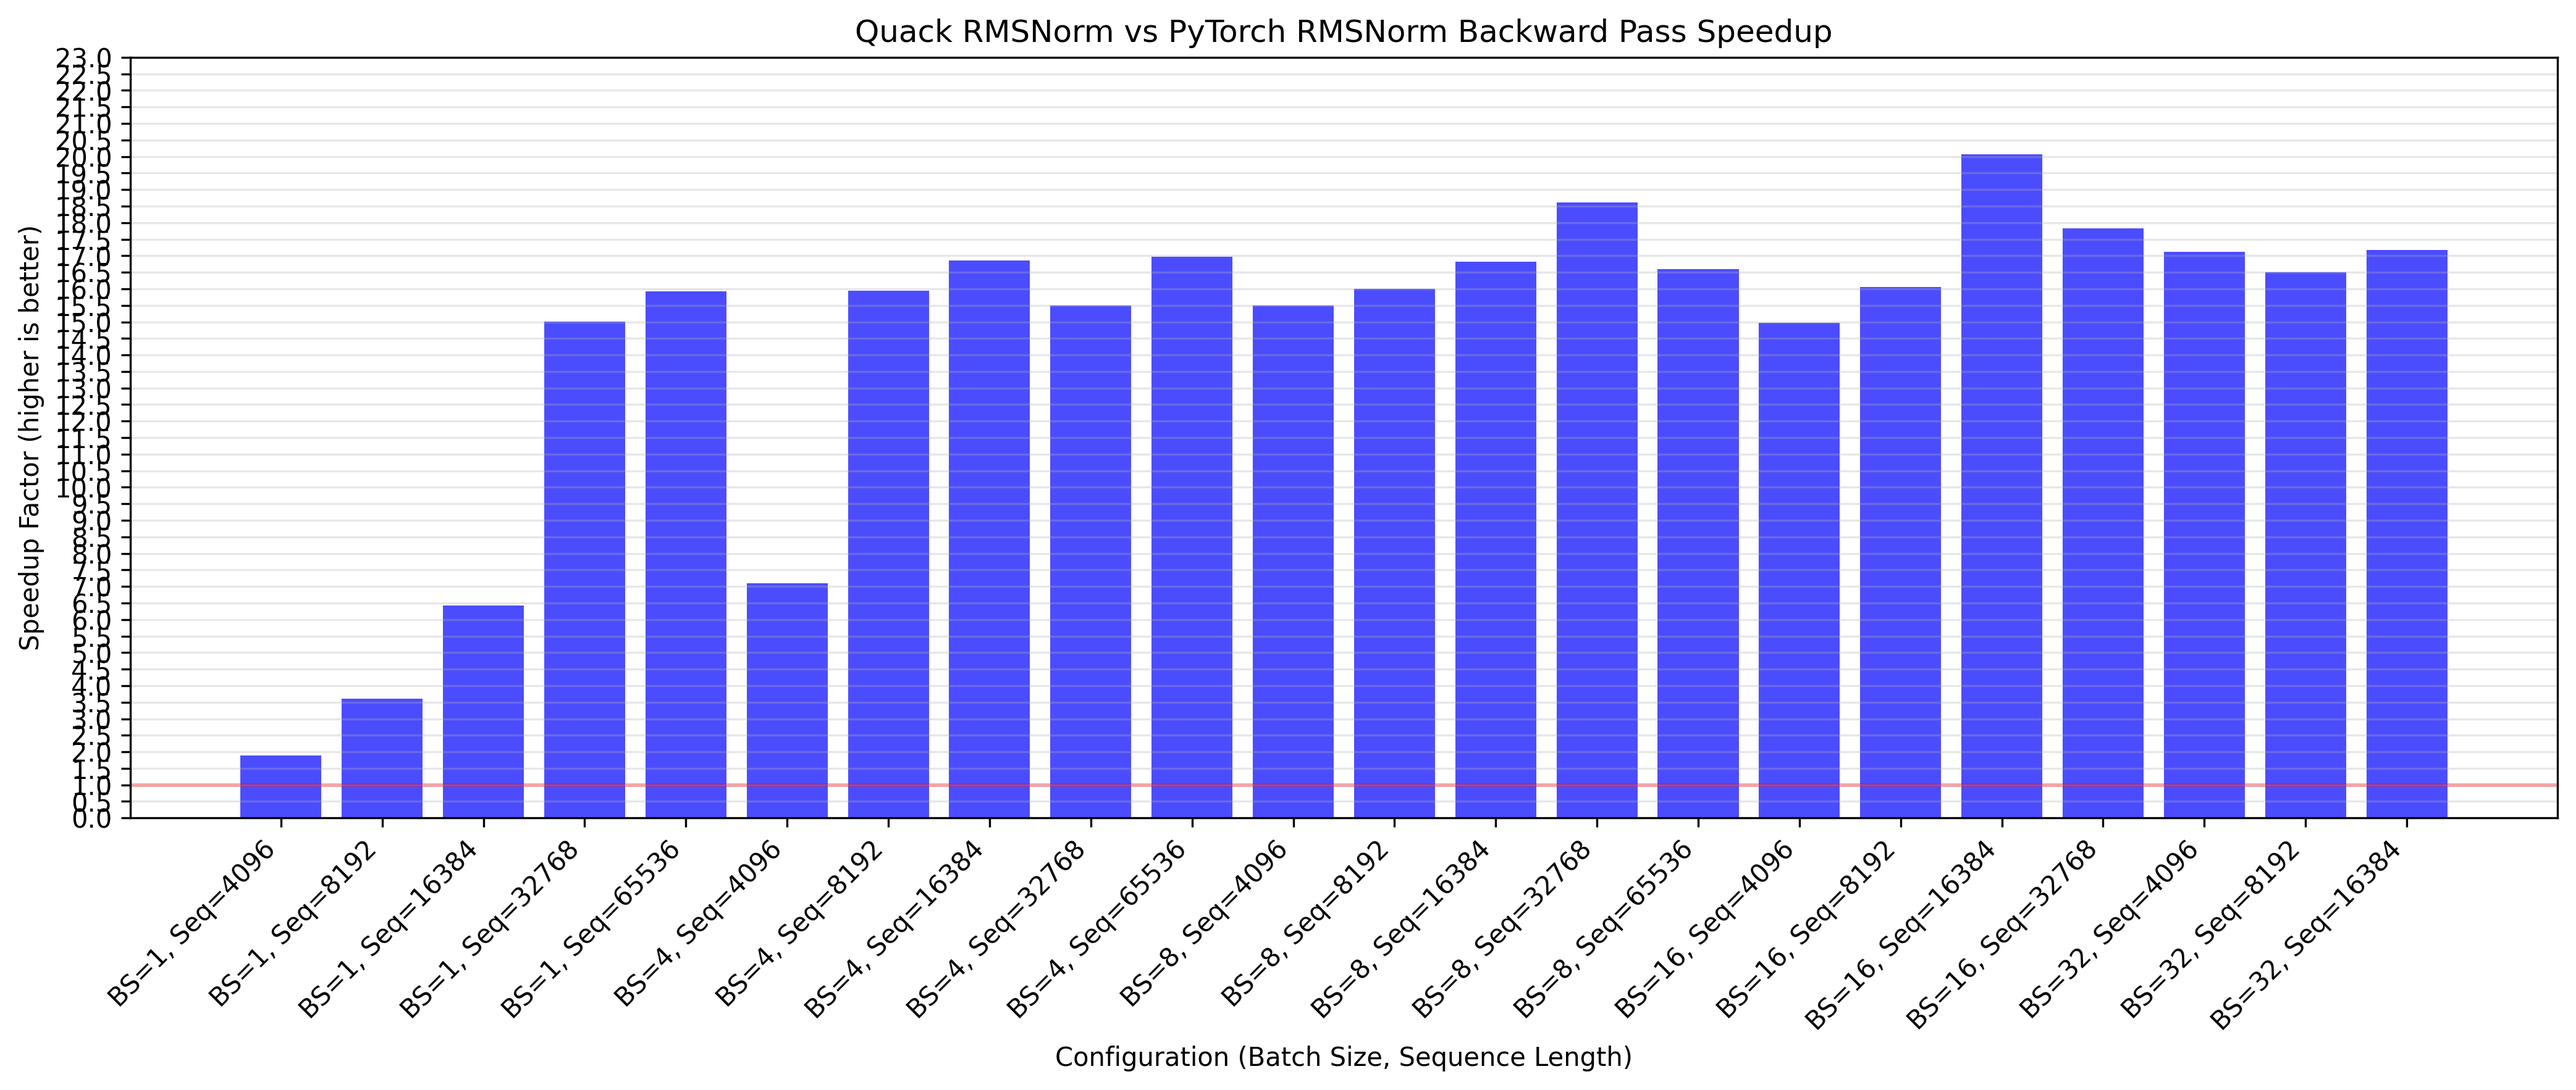
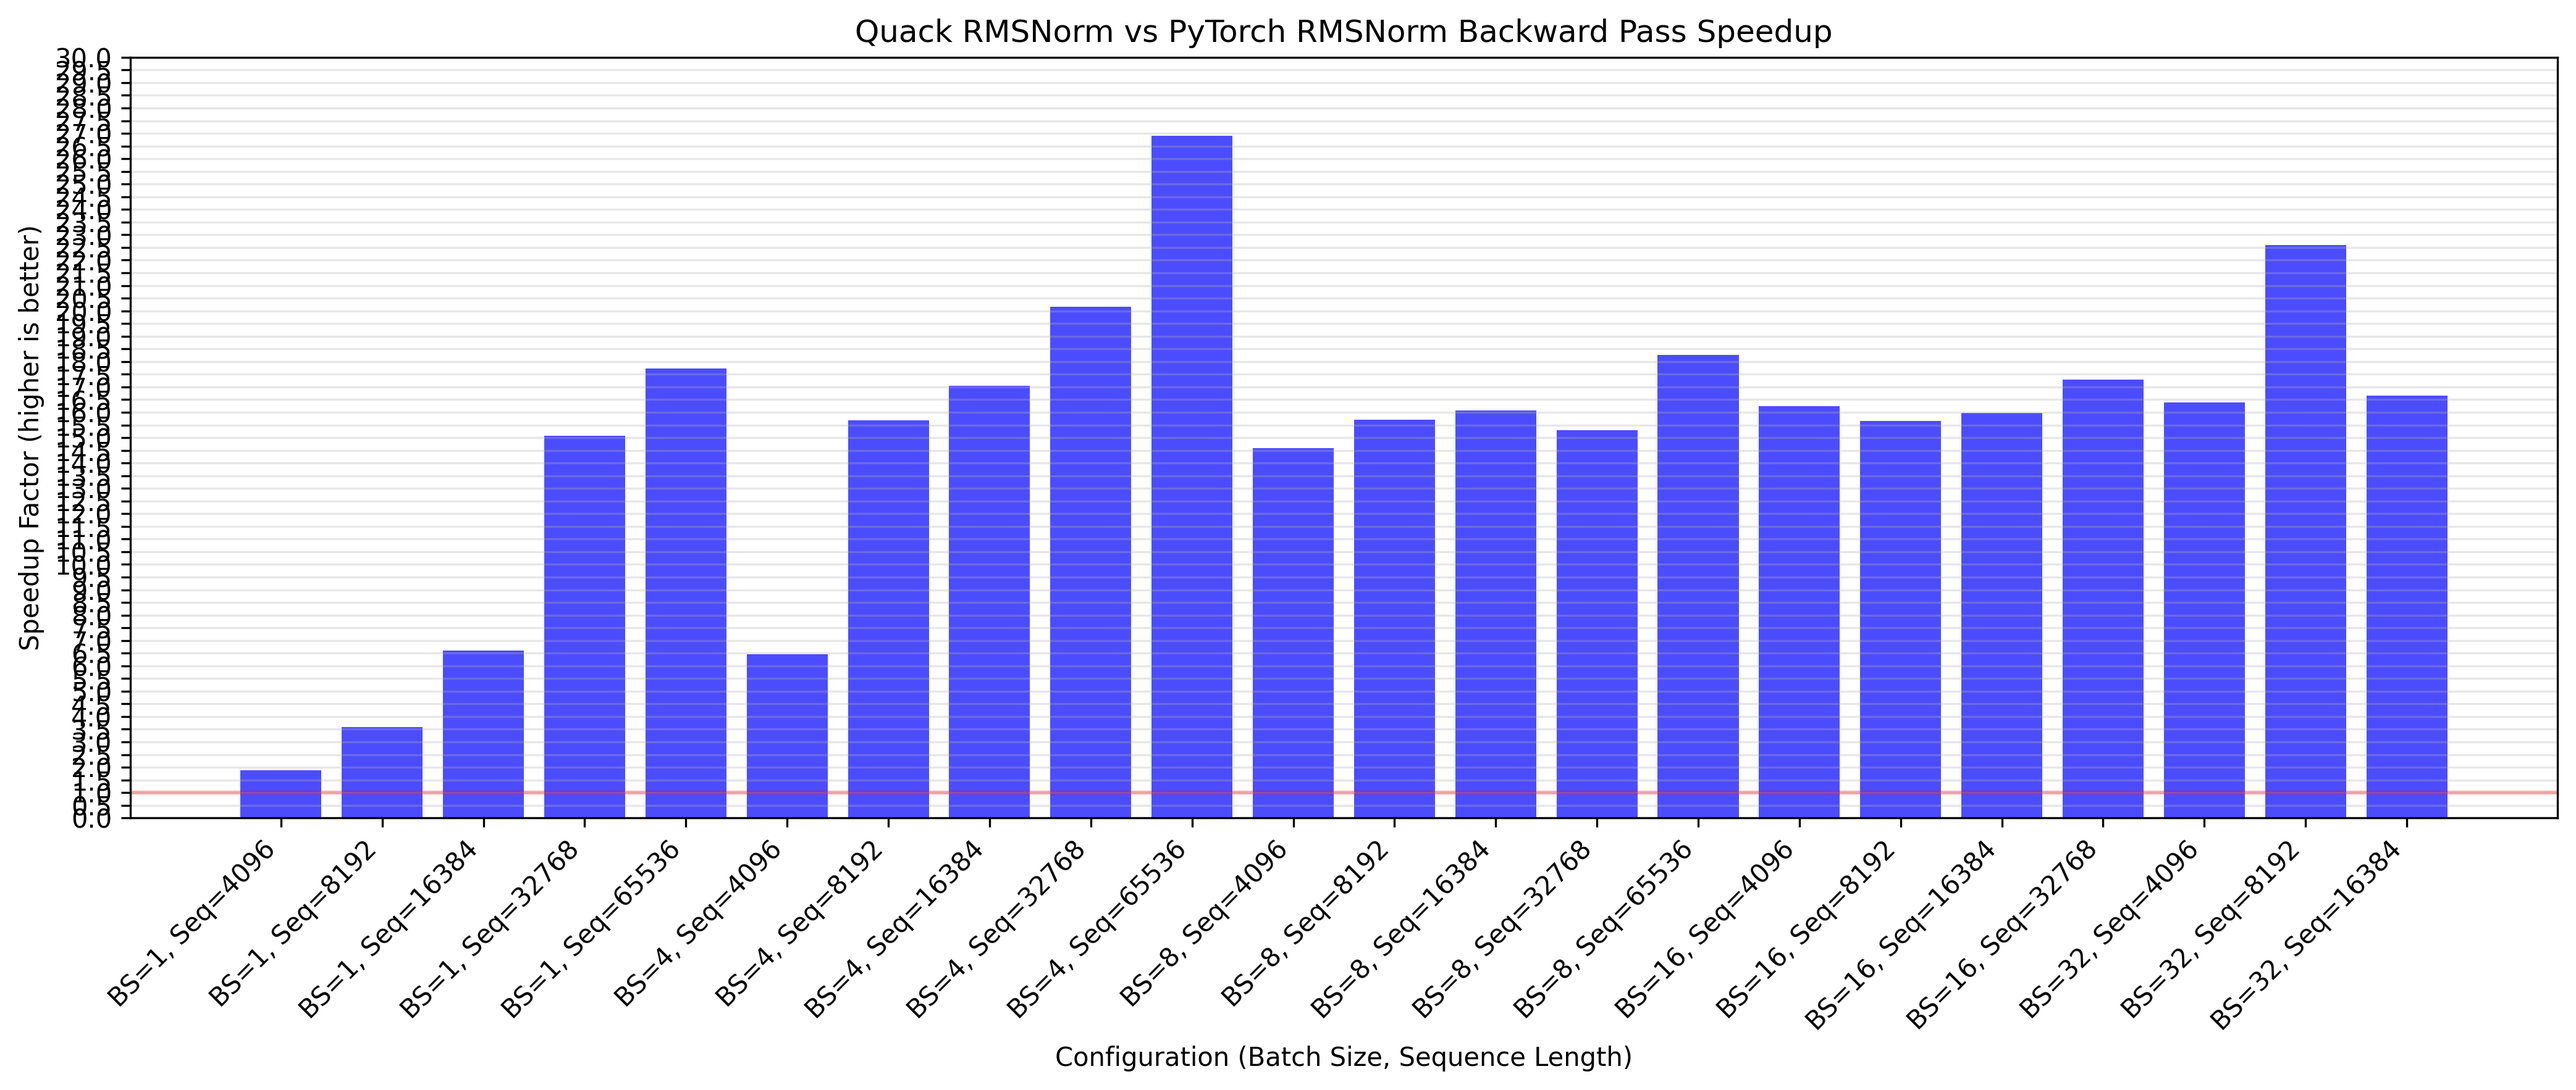
measure backward via subtraction, forward, then forward + backward, subtract.  Fix memory for bwd tracking

Changed region(s): [[0.0, 0.0623, 0.9976, 0.7475]]

diff --git a/benchmarks/pytorch_benchmark_rmsnorm_backward.py b/benchmarks/pytorch_benchmark_rmsnorm_backward.py
@@ -28,98 +28,6 @@ class RMSNorm(nn.Module):
         return self.scale * x_normed
 
 
-def benchmark_backward_direct(
-    implementation_name,
-    model,
-    input_data,
-    num_iterations=100,
-    warmup_iterations=10,
-):
-    """Benchmark the backward pass directly.
-
-    This approach measures the backward pass time directly:
-    1. Run forward pass once to create the computational graph (not timed)
-    2. Measure just the backward pass time using do_bench
-
-    Note: This approach may not work for all implementations due to issues with retain_graph=True.
-    """
-    # Create gradient tensor of the same shape as the output
-    grad_output = torch.randn_like(input_data)
-
-    # Clear cache before starting
-    torch.cuda.empty_cache()
-
-    # Convert iterations to time in ms
-    warmup_ms = 25  # Default warmup time in ms
-    rep_ms = 100  # Default repetition time in ms
-
-    # Create input with gradients outside the benchmark function
-    input_with_grad = input_data.clone().requires_grad_(True)
-
-    # Run forward pass once to create the computational graph
-    output = model(input_with_grad)
-
-    try:
-        # Define the backward-only function
-        def backward_fn():
-            # Reset gradients before backward pass
-            if input_with_grad.grad is not None:
-                input_with_grad.grad = None
-
-            # Run only the backward pass
-            output.backward(grad_output, retain_graph=True)
-            return input_with_grad.grad
-
-        # Measure backward time directly
-        backward_time_ms = triton.testing.do_bench(
-            backward_fn,
-            warmup=warmup_ms,
-            rep=rep_ms,
-            return_mode="mean",
-            grad_to_none=[input_with_grad],  # Set grad to None instead of zeroing
-        )
-
-        print(
-            f"{implementation_name} backward time (direct): {backward_time_ms:.4f} ms"
-        )
-
-    except RuntimeError as e:
-        print(f"Direct backward measurement failed: {e}")
-        print("Falling back to subtraction method")
-        return benchmark_backward_by_subtraction(
-            implementation_name, model, input_data, num_iterations, warmup_iterations
-        )
-
-    # Now measure memory usage for backward pass only
-    torch.cuda.reset_peak_memory_stats()
-    torch.cuda.empty_cache()
-
-    # Record starting memory before backward pass
-    start_mem = torch.cuda.memory_allocated()
-
-    # Run a few iterations of backward-only to get accurate memory measurement
-    for _ in range(5):  # A few iterations to ensure accurate measurement
-        if input_with_grad.grad is not None:
-            input_with_grad.grad = None
-        output.backward(grad_output, retain_graph=True)
-
-    # Record peak memory usage during backward pass only
-    peak_mem = torch.cuda.max_memory_allocated()
-    peak_mem_mb = (peak_mem - start_mem) / (1024 * 1024)  # Convert to MB
-
-    print(f"{implementation_name} backward-only memory: {peak_mem_mb:.2f} MB")
-
-    # Calculate total benchmark time
-    total_benchmark_time_ms = backward_time_ms * num_iterations
-
-    return {
-        "implementation": implementation_name,
-        "avg_time_ms": backward_time_ms,
-        "total_time_ms": total_benchmark_time_ms,
-        "peak_mem_mb": peak_mem_mb,
-    }
-
-
 def benchmark_backward_by_subtraction(
     implementation_name,
     model,
@@ -193,28 +101,30 @@ def benchmark_backward_by_subtraction(
     )
 
     # Now measure memory usage for backward pass only
-    torch.cuda.reset_peak_memory_stats()
     torch.cuda.empty_cache()
 
-    # Record starting memory before backward pass
-    start_mem = torch.cuda.memory_allocated()
+    # Create a fresh input tensor with gradients enabled
+    fresh_input = input_data.clone().requires_grad_(True)
 
-    # Run a few iterations of backward-only to get accurate memory measurement
-    for _ in range(5):  # A few iterations to ensure accurate measurement
-        if input_with_grad.grad is not None:
-            input_with_grad.grad = None
+    # First, run forward pass with gradient tracking
+    output = model(fresh_input)
 
-        # Run forward pass without tracking in benchmark
-        with torch.no_grad():
-            output = model(input_with_grad)
+    # Synchronize to ensure forward pass is complete
+    torch.cuda.synchronize()
 
-        # Run backward pass and track memory
-        output.requires_grad_(True)
-        output.backward(grad_output)
+    # Measure memory after forward pass
+    torch.cuda.reset_peak_memory_stats()
+    forward_mem = torch.cuda.memory_allocated()
+
+    # Then run backward pass
+    output.backward(grad_output)
+
+    # Synchronize to ensure backward pass is complete
+    torch.cuda.synchronize()
 
     # Record peak memory usage during backward pass only
     peak_mem = torch.cuda.max_memory_allocated()
-    peak_mem_mb = (peak_mem - start_mem) / (1024 * 1024)  # Convert to MB
+    peak_mem_mb = (peak_mem - forward_mem) / (1024 * 1024)  # Convert to MB
 
     print(f"{implementation_name} backward-only memory: {peak_mem_mb:.2f} MB")
 
@@ -236,26 +146,15 @@ def benchmark_backward_implementation(
     num_iterations=100,
     warmup_iterations=10,
 ):
-    """Benchmark function that tries direct method first, falls back to subtraction if needed."""
-    # Try the direct method first (more accurate if it works)
-    try:
-        return benchmark_backward_direct(
-            implementation_name,
-            model,
-            input_data,
-            num_iterations,
-            warmup_iterations,
-        )
-    except Exception as e:
-        print(f"Direct method failed for {implementation_name}: {e}")
-        print(f"Falling back to subtraction method for {implementation_name}")
-        return benchmark_backward_by_subtraction(
-            implementation_name,
-            model,
-            input_data,
-            num_iterations,
-            warmup_iterations,
-        )
+    """Benchmark function that uses the same approach for all implementations."""
+    # Use the subtraction-based benchmark for all implementations
+    return benchmark_backward_by_subtraction(
+        implementation_name,
+        model,
+        input_data,
+        num_iterations,
+        warmup_iterations,
+    )
 
 
 def benchmark_rmsnorm_backward_cuda(
